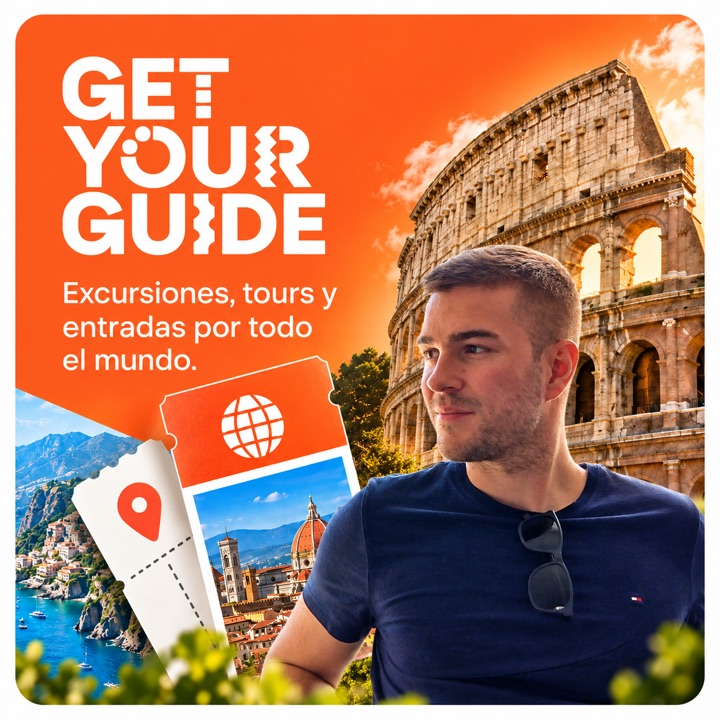
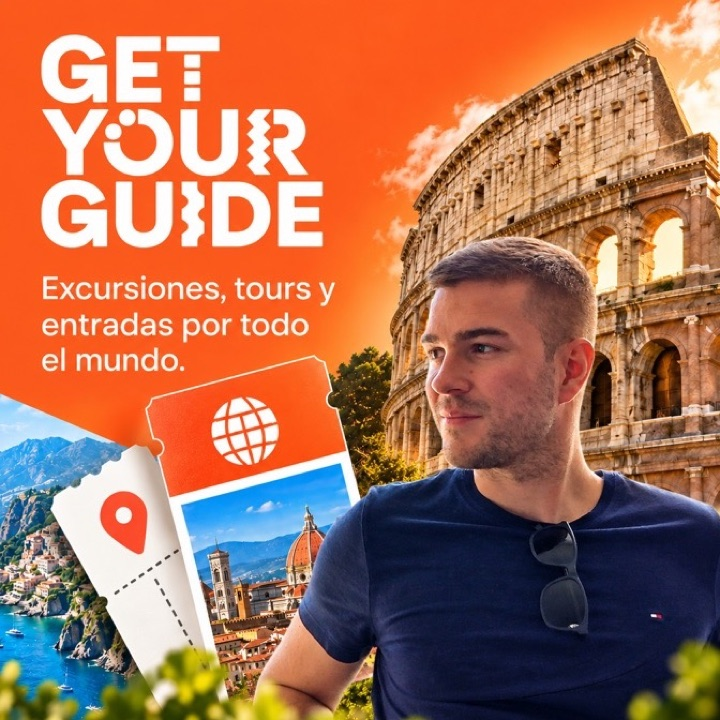
Descuentos: sin bordes, tira "Ver código" centrada + sonido al copiar
1. getyourguide.jpg recortada para quitar el marco blanco (las 4 quedan
   a sangre, sin borde)
2. .deal__more a lo ancho, centrado, más grande (.95rem) con banda sutil,
   claramente pulsable
3. Al pulsar "Copiar" suena un "cha-ching" de caja registradora generado
   con Web Audio (sin archivos)

diff --git a/assets/js/main.js b/assets/js/main.js
@@ -213,6 +213,46 @@
   });
 
   /* ---------- Copiar códigos de descuento ---------- */
+  // Sonido "cha-ching" de caja registradora (Web Audio, sin archivos).
+  var _actx = null;
+  function chaChing() {
+    try {
+      var AC = window.AudioContext || window.webkitAudioContext;
+      if (!AC) return;
+      _actx = _actx || new AC();
+      var ctx = _actx;
+      if (ctx.state === "suspended") ctx.resume();
+      var t0 = ctx.currentTime;
+      // dos campanitas metálicas (ding-ding)
+      [[988, 0], [1319, 0.085]].forEach(function (p) {
+        var freq = p[0], t = t0 + p[1];
+        var g = ctx.createGain();
+        g.gain.setValueAtTime(0.0001, t);
+        g.gain.exponentialRampToValueAtTime(0.42, t + 0.008);
+        g.gain.exponentialRampToValueAtTime(0.0001, t + 0.45);
+        g.connect(ctx.destination);
+        [1, 2.01, 3.03].forEach(function (mult, i) {
+          var o = ctx.createOscillator();
+          o.type = i === 0 ? "triangle" : "sine";
+          o.frequency.value = freq * mult;
+          var og = ctx.createGain();
+          og.gain.value = i === 0 ? 1 : 0.35 / i;
+          o.connect(og); og.connect(g);
+          o.start(t); o.stop(t + 0.5);
+        });
+      });
+      // "clic" corto del cajón al principio
+      var nb = ctx.createBuffer(1, ctx.sampleRate * 0.05, ctx.sampleRate);
+      var d = nb.getChannelData(0);
+      for (var i = 0; i < d.length; i++) d[i] = (Math.random() * 2 - 1) * (1 - i / d.length);
+      var ns = ctx.createBufferSource(); ns.buffer = nb;
+      var ng = ctx.createGain(); ng.gain.value = 0.12;
+      var flt = ctx.createBiquadFilter(); flt.type = "highpass"; flt.frequency.value = 1500;
+      ns.connect(flt); flt.connect(ng); ng.connect(ctx.destination);
+      ns.start(t0);
+    } catch (e) { /* sin sonido */ }
+  }
+
   function legacyCopy(text) {
     return new Promise(function (resolve, reject) {
       try {
@@ -238,6 +278,7 @@
       var row = btn.closest(".deal__code-row") || btn.parentNode;
       var codeEl = row && row.querySelector("[data-deal-code]");
       if (!codeEl) return;
+      chaChing();
       var label = btn.textContent;
       copyText(codeEl.textContent.trim()).then(function () {
         btn.textContent = "¡Copiado!";

diff --git a/assets/css/styles.css b/assets/css/styles.css
@@ -557,11 +557,15 @@ p { margin: 0 0 1em; }
   aspect-ratio: 1 / 1; object-fit: cover;
 }
 .deal__more {
-  display: block; padding: 14px 20px;
-  font-family: var(--font-head); text-transform: uppercase; letter-spacing: .12em;
-  font-size: .74rem; font-weight: 600; color: var(--gold);
+  display: block; width: 100%;
+  padding: 16px 18px; text-align: center;
+  font-family: var(--font-head); text-transform: uppercase; letter-spacing: .18em;
+  font-size: .95rem; font-weight: 600; color: var(--gold);
+  background: rgba(255, 255, 255, .05);
+  transition: background .15s ease, color .15s ease;
 }
-.deal:hover .deal__more { color: var(--gold-bright); }
+.deal:hover .deal__more,
+.deal[open] .deal__more { color: var(--gold-bright); background: rgba(255, 255, 255, .11); }
 .deal__more::after { content: " ▾"; }
 .deal[open] .deal__more::after { content: " ▴"; }
 
